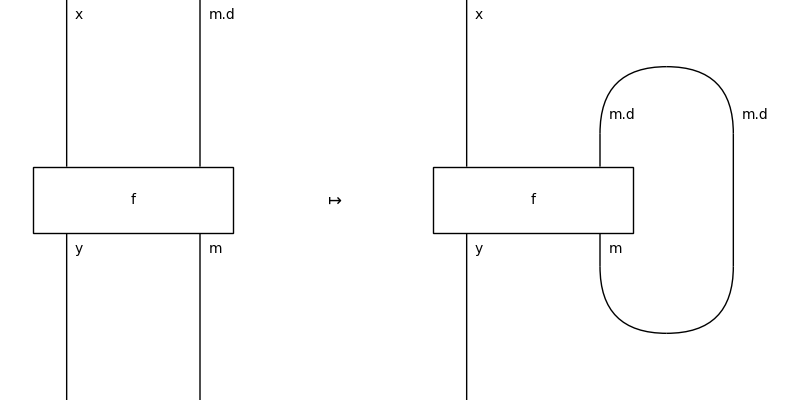
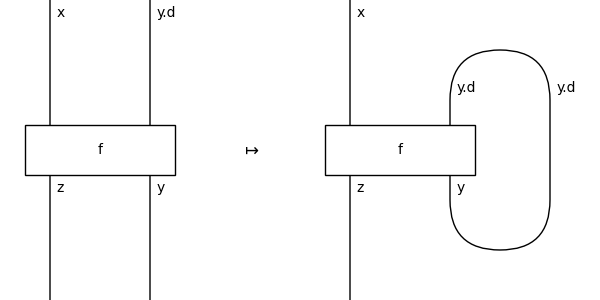
wip

diff --git a/discopy/feedback.py b/discopy/feedback.py
@@ -42,7 +42,7 @@ endofunctor :meth:`Diagram.delay`, shortened to `.d` and a method
 >>> x, y, m = map(Ty, "xym")
 >>> f = Box('f', x @ m.delay(), y @ m)
 >>> Equation(f, f.feedback(), symbol="$\\\\mapsto$").draw(
-...     path="docs/_static/feedback/feedback-operator.png", figsize=(8, 4))
+...     path="docs/_static/feedback/feedback-operator.png")
 
 .. image:: /_static/feedback/feedback-operator.png
     :align: center
@@ -503,11 +503,14 @@ class Feedback(monoidal.Bubble, Box):
 
     Examples
     --------
+    >>> from discopy.drawing import Equation
     >>> x, y, z = map(Ty, "xyz")
-    >>> Box('f', x @ y.delay(), z @ y).feedback().draw(
-    ...     path="docs/_static/feedback/feedback-example.png")
+    >>> f = Box('f', x @ y.delay(), z @ y)
+    >>> fb = f.feedback()
+    >>> Equation(f, fb, symbol="$\\\\mapsto$").draw(
+    ...     path="docs/_static/feedback/feedback-operator.png")
 
-    .. image:: /_static/feedback/feedback-example.png
+    .. image:: /_static/feedback/feedback-operator.png
         :align: center
     """
     to_drawing = markov.Trace.to_drawing

diff --git a/discopy/stream.py b/discopy/stream.py
@@ -557,9 +557,9 @@ class Stream(Composable, Whiskerable, NamedGeneric['category']):
 
         >>> from discopy.drawing import Equation
         >>> Equation(f.unroll(2).now, fb.unroll(2).now, symbol="$\\\\mapsto$"
-        ...     ).draw(path="docs/_static/stream/feedback-example.png")
+        ...     ).draw(path="docs/_static/stream/feedback-unrolling.png")
 
-        .. image:: /_static/stream/feedback-example.png
+        .. image:: /_static/stream/feedback-unrolling.png
             :align: center
         """
         if mem is None or dom is None or cod is None:

diff --git a/README.md b/README.md
@@ -257,28 +257,24 @@ Equation(sentence.foliation(), ALB_trace.foliation(), symbol="$\\mapsto$"
 
 A key axiom of traced monoidal categories which allows to simplify diagrams is the **yanking equation**:
 
-![yanking](https://docs.discopy.org/en/main/_images/yanking1.png)
+![yanking](https://github.com/discopy/discopy/raw/interaction-readme/docs/_static/traced/yanking.png)
 
 If we relax this assumption we get the concept of a [`feedback`](https://docs.discopy.org/en/main/_api/discopy.feedback.html) category where the objects come with a [`delay`](https://docs.discopy.org/en/main/_api/discopy.feedback.Ob.html#discopy.feedback.Ob.delay) operation and the feedback loops have a more restricted shape:
 
-![feedback](https://docs.discopy.org/en/main/_images/feedback-operator.png)
+![feedback operator](https://github.com/discopy/discopy/raw/interaction-readme/docs/_static/feedback/feedback-operator.png)
 
-Given a symmetric category $C$, we can construct a feedback category of **monoidal streams** $Stream(C)$ where the objects are infinite sequences of objects $Ob(Stream(C)) = C \times Ob(Stream(C))$, and the arrows are infinite sequences of arrows $Stream(C)(X, Y) = \coprod_{M} Stream(C)(X, Y, M)$ defined by
+Given a symmetric category $C$, we can construct a feedback category of **monoidal streams** $Stream(C)$ where
+
+- the objects are infinite sequences of objects $Ob(Stream(C)) = C \times Ob(Stream(C))$,
+- the arrows are infinite sequences of arrows $Stream(C)(X, Y) = \coprod_{M} Stream(C)(X, Y, M)$ defined by
+
 $$Stream(C)(X, Y, M) = C(X_0 \otimes M_0, Y_0 \otimes M_1)  \times Stream(C)(X^+, Y^+, M^+)$$
+
 where $X_0$ and $X^+$ are the head and the tail of the stream $X$.
+
 This comes with a delay $d(X) \in Ob(Stream(C))$ given by the monoidal unit $d(X)_0 = I$, $d(X)^+ = X$ and feedback operation given by:
 
-```python
-from discopy import symmetric
-from discopy.stream import Ty, Stream
-
-x, y, m = [Ty.sequence(symmetric.Ty(n)) for n in "xym"]
-f = Stream.sequence("f", x @ m.delay(), y @ m)
-fb = f.feedback(x, y, m)
-Equation(f.unroll(2).now, fb.unroll(2).now, symbol="$\\mapsto$").draw()
-```
-
-![](https://docs.discopy.org/en/main/_images/feedback-example1.png)
+![feedback unrolling](https://github.com/discopy/discopy/raw/interaction-readme/docs/_static/feedback/feedback-unrolling.png)
 
 We can use this to unroll our diagram of the previous section:
 
